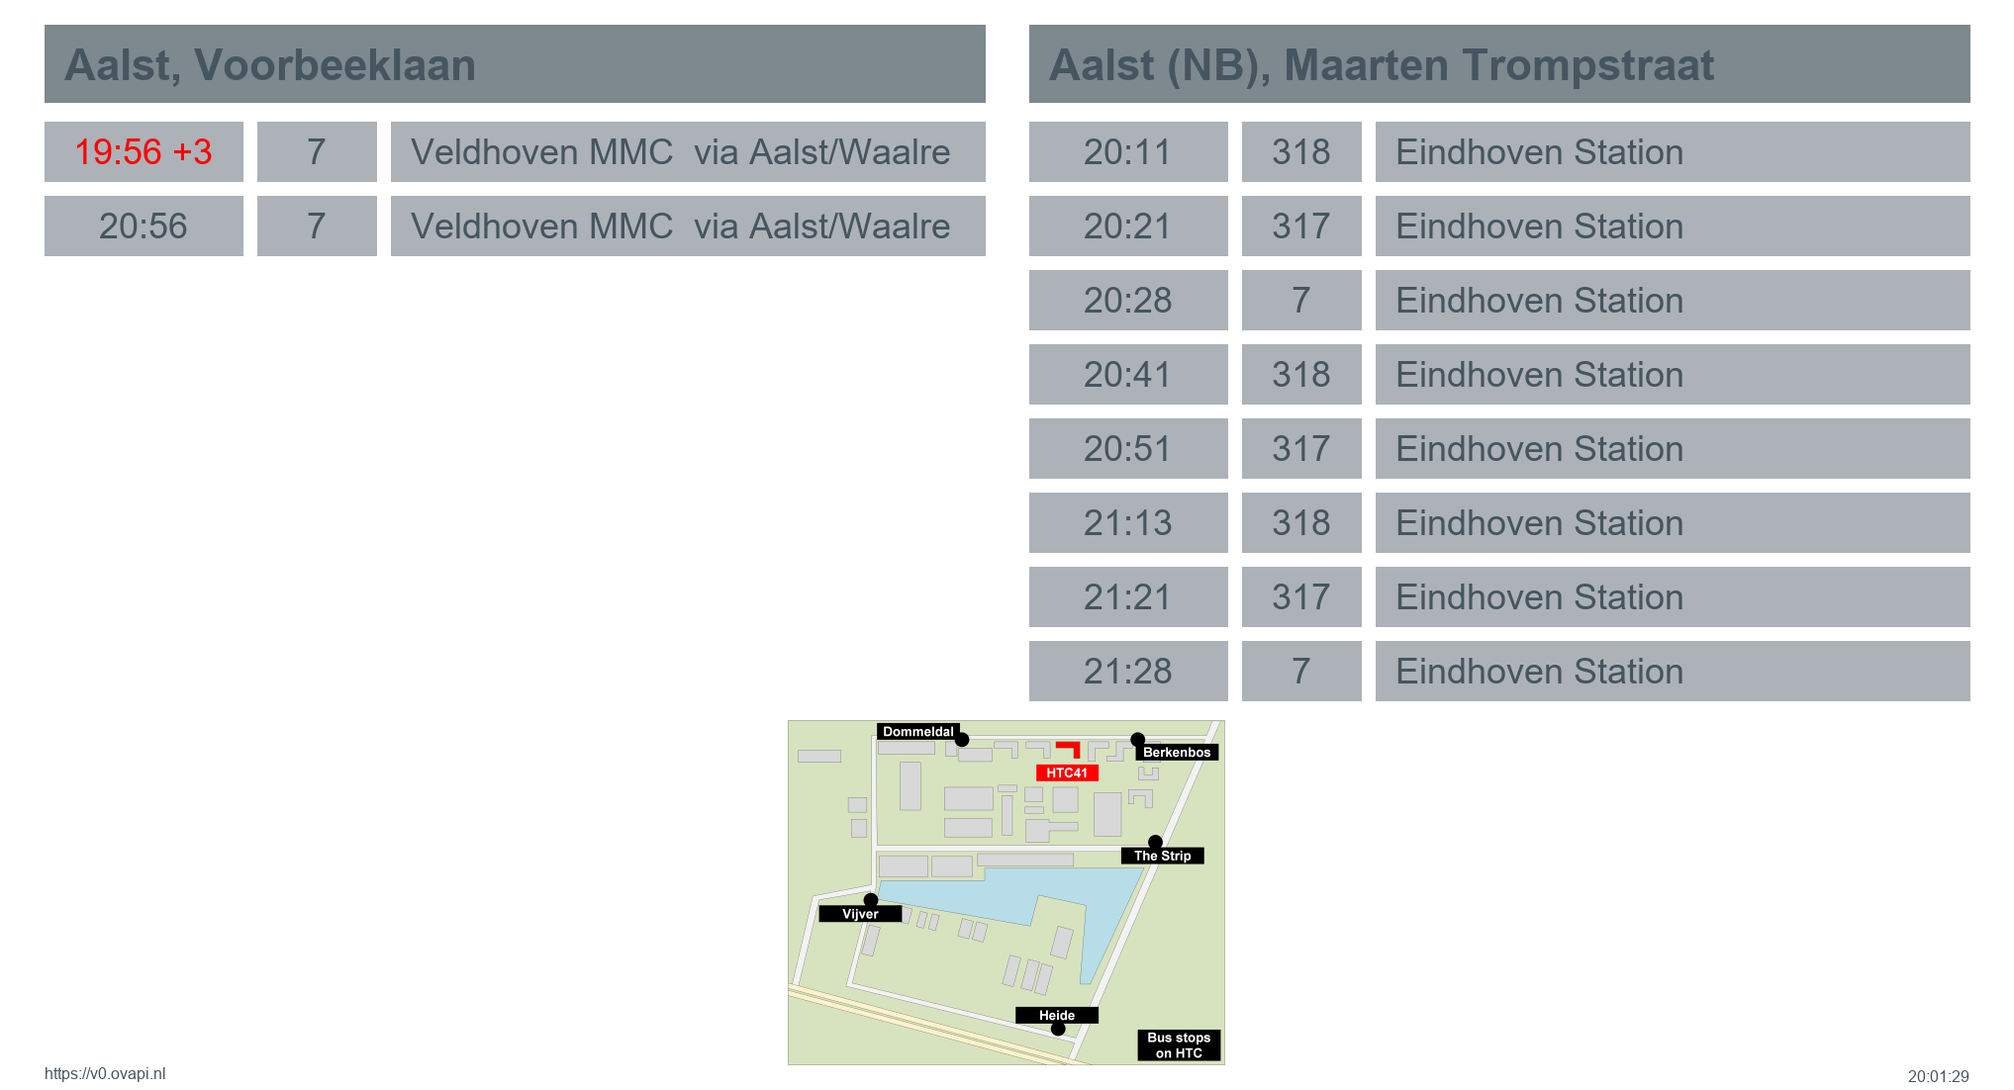
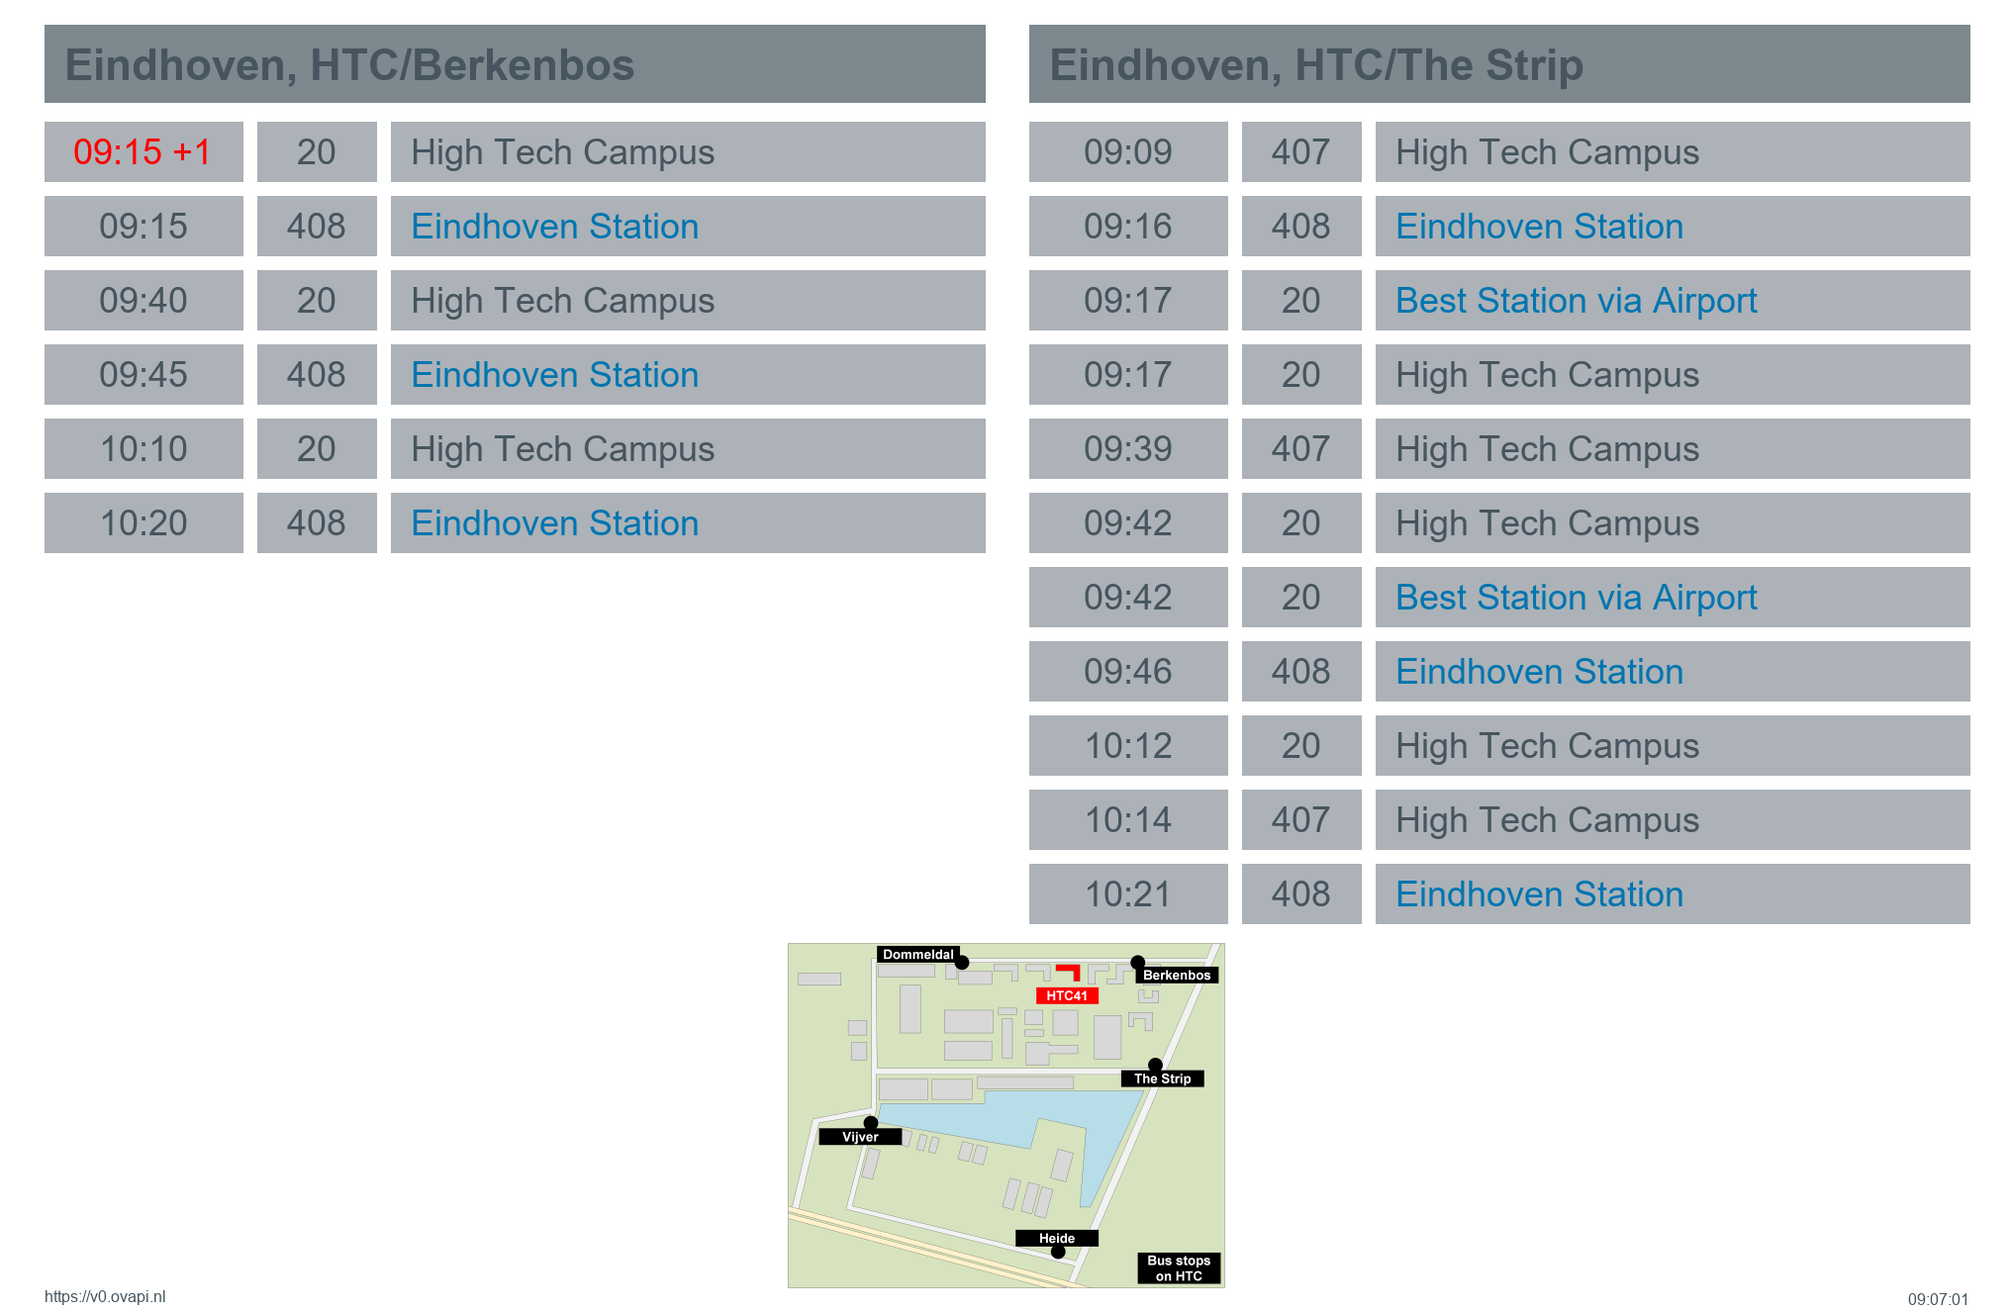
v2 Lost bus fixed
- Fixed bug that removed departures
 - added row limit
 - more flex in fgcolor
 - changed footer

Changed region(s): [[0.0, 0.0, 0.9907, 0.9873], [0.9287, 0.9873, 0.9907, 1.0], [0.031, 0.9564, 0.0619, 1.0]]

diff --git a/nlbus/nlbus.py b/nlbus/nlbus.py
@@ -2,8 +2,9 @@
 
 
 # nlbus.png.py - Script creating a timetable for bus stops (in the Netherlands)
+# 2021 oct 01  v2  Maarten Pennings  Fixed bug that removed departures, added row limit, more flex in fgcolor
 # 2021 sep 29  v1  Maarten Pennings  Created
-version = "v1"
+version = "v2"
 
 
 # You need some modules
@@ -45,17 +46,15 @@ from datetime import datetime
 const_url="https://v0.ovapi.nl"
 
 # Standard colors (typically don't change, but add new names)
-const_color_amsgrey1=( 70, 85, 95)        # color code for ams dark grey
-const_color_amsgrey2=(125,136,143)        # color code for ams medium grey
-const_color_amsgrey3=(172,178,183)        # color code for ams light grey
-const_color_amsgreen=( 65,171,  2)        # color code for ams green
-const_color_amsblue =(  0,117,176)        # color code for ams blue
-const_color_red     =(255,  0,  0)        # color code for plain red
+const_color_amsgrey1=( 70, 85, 95)              # color code for ams dark grey
+const_color_amsgrey2=(125,136,143)              # color code for ams medium grey
+const_color_amsgrey3=(172,178,183)              # color code for ams light grey
+const_color_amsgreen=( 65,171,  2)              # color code for ams green
+const_color_amsblue =(  0,117,176)              # color code for ams blue
+const_color_red     =(255,  0,  0)              # color code for plain red
 
 
-
-
-# Diversity settings: Vertical spacing
+# Diversity settings: Vertical spacing (make it fit in 1026; 1080 minus NarrowCast status bar)
 #
 #   div_y_mar  |
 #              +----------------------------------+
@@ -79,16 +78,16 @@ const_color_red     =(255,  0,  0)        # color code for plain red
 #              +-------------+
 #   div_y_mar  |
 
-div_y_mar = 25                            # top and bottom vertical margin
-div_y_seph = 20                           # vertical space between head cell and (first) plain cell
-div_y_sepc = 15                           # vertical space between plain cells
-div_y_sepm = 20                           # vertical space between plain cells and map
+div_y_mar = 25                                  # top and bottom vertical margin
+div_y_seph = 15                                 # vertical space between head cell and (first) plain cell
+div_y_sepc = 15                                 # vertical space between plain cells
+div_y_sepm = 20                                 # vertical space between plain cells and map
 
-div_y_head = 78                           # height of the head cell
-div_y_row = 60                            # height of the plain cells
+div_y_head = 78                                 # height of the head cell
+div_y_row = 60                                  # height of the plain cells
 
 
-# Diversity settings: Horizontal spacing
+# Diversity settings: Horizontal spacing (make it fit in 1920)
 #
 #   div_x_mar div_x_head                                                    div_x_seph                                 div_x_mar
 #   ---------+-------------------------------------------------------------+----------+-------------------------------+---------
@@ -98,44 +97,49 @@ div_y_row = 60                            # height of the plain cells
 #            +----------+----------+----------+----------+-----------------+----------+-----+-+---+-+-----------------+
 #             div_x_time div_x_sepc div_x_line div_x_sepc     div_x_dest
 
-div_x_mar = 45                            # top and bottom horizontal margin
-div_x_seph = 45                           # horizontal space between head cells
-div_x_sepc = 15                           # horizontal space between plain cells
+div_x_mar = 25                                  # top and bottom horizontal margin
+div_x_seph = 30                                 # horizontal space between head cells
+div_x_sepc = 10                                 # horizontal space between plain cells
 
-div_x_time = 200                          # width for the departure time field
-div_x_line = 120                          # width for the bus line number field
-div_x_dest = 600                          # width for the bus destination field
+div_x_time = 190                                # width for the departure time field
+div_x_line = 100                                # width for the bus line number field
+div_x_dest = 600                                # width for the bus destination field
 div_x_head = div_x_time + div_x_sepc + div_x_line + div_x_sepc + div_x_dest
 
 
 # Diversity settings: Background color for generated image
-div_bgcol= 0                              # background color of generated image (0=transparent, also eg "white")
+div_bgcolor= 0                                  # background color of generated image (0=transparent, also eg "white")
 
 
 # Diversity settings: Font and colors for heading
-div_head_fontname="ARIALBD.TTF"           # font name for head cells
-div_head_fontsize=44                      # font size for within head cells
-div_head_bgcolor= const_color_amsgrey2    # background color for within head cells
-div_head_fgcolor= const_color_amsgrey1    # foreground color for within head cells
-div_head_ytxt = 16                        # vertical offset for text in head cells
-div_head_xtxt = 20                        # horizontal offset for text in head cells
+div_head_fontname="ARIALBD.TTF"                 # font name for head cells
+div_head_fontsize=44                            # font size for within head cells
+div_head_bgcolor= const_color_amsgrey2          # background color for within head cells
+div_head_fgcolor= const_color_amsgrey1          # foreground color for within head cells
+div_head_ytxt = 16                              # vertical offset for text in head cells
+div_head_xtxt = 20                              # horizontal offset for text in head cells
 
 
 # Diversity settings: Font and colors for plain cells
-div_cell_fontname="ARIAL.TTF"             # font name for plain cells
-div_cell_fontsize=36                      # font size for within plain cells
-div_cell_bgcolor= const_color_amsgrey3    # background color for within plain cells
-div_cell_fgcolor_lo= const_color_amsgrey1 # foreground color (low light) for within plain cells
-div_cell_fgcolor_hi= const_color_amsblue  # foreground color (high light) for within plain cells
-div_cell_fgcolor_delay= const_color_red   # foreground color for delays
-div_cell_ytxt = 10                        # vertical offset for text in plain cells
-div_cell_xtxt = 20                        # horizontal offset for text in plain cells
+div_cell_fontname="ARIAL.TTF"                   # font name for plain cells
+div_cell_fontsize=36                            # font size for within plain cells
+div_cell_bgcolor= const_color_amsgrey3          # background color for within plain cells
+
+div_cell_time_fgcolor= const_color_amsgrey1     # foreground color for within time cells
+div_cell_line_fgcolor= const_color_amsgrey1     # foreground color for within line cells
+div_cell_dest_fgcolor= const_color_amsblue      # foreground color for within destination cells
+
+div_cell_timelate_fgcolor= const_color_red      # foreground color for within time cells when bus is late
+div_cell_destlo_fgcolor= const_color_amsgrey1   # foreground color for within destination cells when low lighted
+
+div_cell_ytxt = 10                              # vertical offset for text in plain cells
+div_cell_xtxt = 20                              # horizontal offset for text in plain cells
 
 
 # Diversity settings: Font for server "now" time stamp
-div_now_fontname="ARIAL.TTF"              # font name for server "now" time stamp
-div_now_fontsize=16                       # font size for server "now" time stamp
-div_now_fgcolor=const_color_amsgrey1      # foreground color for server "now" time stamp
+div_now_fontname="ARIAL.TTF"                    # font name for server "now" time stamp
+div_now_fontsize=16                             # font size for server "now" time stamp
+div_now_fgcolor=const_color_amsgrey1            # foreground color for server "now" time stamp
 
 
 # Prepend the path of this script to fonts\filename to make it an absolute path
@@ -151,7 +155,9 @@ def getFontPath(filename):
 #
 # `stops` is a string of comma separated "stopareacode"s, e.g. "ehvhbb,ehvhts". Find yours in https://v0.ovapi.nl/stopareacode
 # Each stopareacode is a key into the returned dictionary, giving the departure table for that stop.
-# The departure table is also a dictionary with `name`, `code` and a dictionary of `deps` (departures):
+# `maxrow` limits the length of the departure list in the output image
+#
+# The departure table is a dictionary with `name`, `code` and a dictionary of `deps` (departures):
 #   'ehvhts': {
 #     'name': 'Eindhoven, HTC/The Strip',
 #     'code': '64121390',
@@ -160,7 +166,7 @@ def getFontPath(filename):
 #       '14:42': { 'dest':'Best Station via Airport', 'line':'20', 'time':'2021-09-29T14:42:00', 'delay':120 }
 #     }
 #   }
-def stops2tables(stops) :
+def stops2tables(stops,maxrow) :
   global log
   # Load json data
   url = f"{const_url}/stopareacode/{stops}"
@@ -171,7 +177,7 @@ def stops2tables(stops) :
   # Convert data to json
   data_dict = json.loads(data_json)
   # log+= f"dict   : {str(data_dict)[:150]}...\r\n"
-  
+
   # data_dict has this structure, pick the relevant fields
   #
   # {
@@ -200,11 +206,12 @@ def stops2tables(stops) :
       LinePublicNumber = pass_dict["LinePublicNumber"]
       TargetArrivalTime = pass_dict["TargetArrivalTime"]
       ExpectedArrivalTime = pass_dict["ExpectedArrivalTime"]
-      delay = datetime.strptime(ExpectedArrivalTime,'%Y-%m-%dT%H:%M:%S') - datetime.strptime(TargetArrivalTime,'%Y-%m-%dT%H:%M:%S') 
+      delay = datetime.strptime(ExpectedArrivalTime,'%Y-%m-%dT%H:%M:%S') - datetime.strptime(TargetArrivalTime,'%Y-%m-%dT%H:%M:%S')
       delay = int(delay.total_seconds())
       log+= f"           {TargetArrivalTime} +{delay}s {LinePublicNumber} {DestinationName50}\r\n"
-      time = TargetArrivalTime[11:19]# "2021-09-29T00:41:33+0200"
-      departures[time]= {"dest":DestinationName50, "line":LinePublicNumber, "time":TargetArrivalTime, "delay":delay }
+      depkey = TargetArrivalTime[11:19] + key # "time" for sorting and "key" to make depkey unique (two departures with same time)
+      departures[depkey]= {"dest":DestinationName50, "line":LinePublicNumber, "time":TargetArrivalTime, "delay":delay }
+      if len(departures)>=maxrow : break # load (and thus render) limit
     table["deps"] = dict(sorted(departures.items())) # Sort on time, this is the order in the UI
     tables[stop] = table
   return tables
@@ -217,7 +224,7 @@ def stops2tables(stops) :
 # If `mapname` is not None, it should be a path to a image that will be added.
 def tables2image(tables,lowlight,mapname) :
   global log
-  # Find longest table
+  # Find table with most departure rows
   maxdeps = 1 # at least "no (more) busses"
   numstops = 0
   for skey in tables :
@@ -225,80 +232,76 @@ def tables2image(tables,lowlight,mapname) :
     maxdeps = max(maxdeps,len(stop["deps"]))
     numstops += 1
   log+= f"draw   : tables {numstops}, rows {maxdeps}\r\n"
-  # Compute size
+  # Compute size for image to generate
   width = div_x_mar + div_x_head*numstops + div_x_seph*(numstops-1) + div_x_mar
   height = div_y_mar + div_y_head + div_y_seph + div_y_row*maxdeps + div_y_sepc*(maxdeps-1) + div_y_mar
-  # Get map image
+  #  - optionally add map image
   if mapname!= None :
     mapimg = Image.open(mapname)
     height += div_y_sepm + mapimg.height
-  # Create image
-  img = Image.new("RGBA", (width,height), div_bgcol )
-  draw = ImageDraw.Draw(img)
+  # Create image of computed size
+  image = Image.new("RGBA", (width,height), div_bgcolor )
+  draw = ImageDraw.Draw(image)
   head_font = ImageFont.truetype(getFontPath(div_head_fontname), div_head_fontsize)
   cell_font = ImageFont.truetype(getFontPath(div_cell_fontname), div_cell_fontsize)
   now_font = ImageFont.truetype(getFontPath(div_now_fontname), div_now_fontsize)
   log+= f"size   : {width}*{height}\r\n"
-  # Create a column per stop
-  x0 = div_x_mar
+  # Create a column per stop - recall stop is key in tables
+  x0 = div_x_mar # column offset - increases with every stop
   for skey in tables :
     stop = tables[skey]
     # Draw head
-    y0 = div_y_mar
+    y0 = div_y_mar # row offset - increases with each departure
     draw.rectangle([x0,y0,x0+div_x_head,y0+div_y_head],fill=div_head_bgcolor,outline=div_head_bgcolor)
     draw.text( (x0+div_head_xtxt,y0+div_head_ytxt), stop["name"], div_head_fgcolor, font=head_font)
     # Draw departure rows
     y0 += div_y_head + div_y_seph
     for dkey in stop["deps"] :
       dep = stop["deps"][dkey]
-      #  - time
-      x = x0
+      # - time
+      x = x0 # cell offset - increases when moving from time/line/dest
       txt = dep["time"][11:16]
       if dep["delay"]>=60 :
         txt += f' +{dep["delay"]//60}'
       draw.rectangle([x,y0,x+div_x_time,y0+div_y_row],fill=div_cell_bgcolor,outline=div_cell_bgcolor)
       sizex,sizey= draw.textsize( txt, font=cell_font)
       dx = (div_x_time-div_cell_xtxt-div_cell_xtxt-sizex)//2
-      draw.text( (x+div_cell_xtxt+dx,y0+div_cell_ytxt), txt, div_cell_fgcolor_delay if dep["delay"]>=60 else div_cell_fgcolor_lo, font=cell_font)
-      #  - line
+      draw.text( (x+div_cell_xtxt+dx,y0+div_cell_ytxt), txt, div_cell_timelate_fgcolor if dep["delay"]>=60 else div_cell_time_fgcolor, font=cell_font)
+      # - line
       x += div_x_time + div_x_sepc
       txt = dep["line"]
       draw.rectangle([x,y0,x+div_x_line,y0+div_y_row],fill=div_cell_bgcolor,outline=div_cell_bgcolor)
       sizex,sizey= draw.textsize( txt, font=cell_font)
       dx = (div_x_line-div_cell_xtxt-div_cell_xtxt-sizex)//2
-      draw.text( (x+div_cell_xtxt+dx,y0+div_cell_ytxt), txt , div_cell_fgcolor_lo, font=cell_font)
-      #  - dest
+      draw.text( (x+div_cell_xtxt+dx,y0+div_cell_ytxt), txt , div_cell_line_fgcolor, font=cell_font)
+      # - dest
       x += div_x_line + div_x_sepc
       txt = dep["dest"]
       draw.rectangle([x,y0,x+div_x_dest,y0+div_y_row],fill=div_cell_bgcolor,outline=div_cell_bgcolor)
-      draw.text( (x+div_cell_xtxt,y0+div_cell_ytxt), txt, div_cell_fgcolor_lo if lowlight in txt else div_cell_fgcolor_hi, font=cell_font)
+      draw.text( (x+div_cell_xtxt,y0+div_cell_ytxt), txt, div_cell_destlo_fgcolor if lowlight in txt else div_cell_dest_fgcolor, font=cell_font)
       # Move x0 to new column
       y0 += div_y_row + div_y_sepc
-    # Was there a stop, or no more busses because too late?
+    # Was there a stop (or no more busses because too late in the day)
     if len(stop["deps"])==0 :
       draw.rectangle([x0,y0,x0+div_x_head,y0+div_y_row],fill=div_cell_bgcolor,outline=div_cell_bgcolor)
       txt = "no (more) busses"
-      draw.text( (x0+div_cell_xtxt,y0+div_cell_ytxt), txt, div_cell_fgcolor_lo, font=cell_font)
+      draw.text( (x0+div_cell_xtxt,y0+div_cell_ytxt), txt, div_cell_destlo_fgcolor, font=cell_font)
     # Move x0 to new column
     x0 += div_x_head + div_x_seph
-
   # Add map
   if mapname!= None :
-    img.paste( mapimg, ( (width-mapimg.width)//2, height-mapimg.height-div_y_mar ) )
-  # Add server url and time stamp
-  txt = datetime.now().strftime("%H:%M:%S")
+    image.paste( mapimg, ( (width-mapimg.width)//2, height-mapimg.height-div_y_mar ) )
+  # Add server url, time stamp and script version
+  txt = f"from {const_url} at {datetime.now().strftime('%H:%M:%S')} by nlbus {version}"
   sizex,sizey= draw.textsize( txt, font=now_font)
-  draw.text( (width-sizex-div_x_mar,height-sizey-div_now_fontsize//2), txt, div_now_fgcolor, font=now_font)
-  txt = const_url
-  sizex,sizey= draw.textsize( txt, font=now_font)
-  draw.text( (div_x_mar,height-sizey-div_now_fontsize//2), txt, div_now_fgcolor, font=now_font)
-  return img
+  draw.text( (div_x_mar,height-sizey-2), txt, div_now_fgcolor, font=now_font)
+  return image
 
 
 # Converts an image to a buffer of raw bytes (to be send by http)
-def image2bytes(image) :
+def image2buffer(image) :
   global log
-  # Send image to web client
+  # Save image to file in memory
   with io.BytesIO() as memfile:
     image.save(memfile, format="png")
     buffer= memfile.getvalue()
@@ -306,23 +309,24 @@ def image2bytes(image) :
   return buffer
 
 
-# Sequence of conversion steps, with a log to more easily finding errors
-# `stops` is a string of comma separated "stopareacode"s, e.g. "ehvhbb,ehvhts". Find yours in https://v0.ovapi.nl/stopareacode
+# Sequence of conversion steps, with a log to more easily find errors.
+# `stops` is a string of comma separated "stopareacode"s, e.g. "ehvhbb,ehvhts". Find yours in https://v0.ovapi.nl/stopareacode.
+# `maxrow` limits the length of the departure list in the output image.
 # If the destination of a departure contains `lowlight`, that destination is drawn in lowlight, else in highlight.
 # If mapname is not none, it should be a path to a image that will be added.
 # Returns the final image buffer but also the intermediate results: tables, image, buffer.
-def main(stops,lowlight,mapname) :
+def main(stops,maxrow,lowlight,mapname) :
   global log
   log = ""
   log += f"NL Bus creates a timetable for bus stops (in the Netherlands) - {version}\r\n"
-  log += "SYNTAX : nlbus.png?stops=ehvhbb,ehvhts&lowlight=Campus&mapname=htc.png\r\n"
-  log += "         Find stops on https://v0.ovapi.nl/stopareacode, lowlight and mapname are optional\r\n\r\n"
+  log += "SYNTAX : nlbus.png?stops=ehvhbb,ehvhts&maxrow=7&lowlight=Campus&mapname=htc.png\r\n"
+  log += "         Find stops on https://v0.ovapi.nl/stopareacode, maxrow, lowlight and mapname are optional\r\n\r\n"
   # Create table with departures for every bus stop in `stops`
-  tables = stops2tables(stops)
+  tables = stops2tables(stops,maxrow)
   # Convert table to image grid (low lighting all destinations that contain `lowlight`)
   image = tables2image(tables,lowlight,mapname)
   # Convert image to bytes array
-  buffer = image2bytes(image)
+  buffer = image2buffer(image)
   return tables,image,buffer
 
 
@@ -332,11 +336,12 @@ def application(environ, start_response):
   try:
     # Get parameters from URL
     params = urllib.parse.parse_qs(environ['QUERY_STRING'])
-    stops = params.get('stops', ["ehvhts"])[0]
-    lowlight = params.get('lowlight', [""])[0]
-    mapname = params.get('mapname', [None])[0]
+    stops = params.get('stops', ["ehvhts"])[0] # default "Eindhoven, HTC/The Strip"
+    maxrow = params.get('maxrow', [9999])[0]   # default: "all departures" (9999 is poor man's +inf)
+    lowlight = params.get('lowlight', [""])[0] # default: all destinations are lowlighted (all match "")
+    mapname = params.get('mapname', [None])[0] # default: no map
     # Load actual bus data from server and convert to image
-    tables,image,buffer = main(stops,lowlight,mapname)
+    tables,image,buffer = main(stops,maxrow,lowlight,mapname)
     # raise Exception("Aborted for testing") # Uncomment for testing
     start_response("200 OK",[("Content-type","image/png")])
     return [buffer]
@@ -350,12 +355,11 @@ def application(environ, start_response):
 if __name__ == "__main__":
   global log
   try:
-    stops="ehvhbb,ehvhts"
-    lowlight="High Tech Campus"
-    stops = "aalvbl,aalmts"
-    lowlight=""
+    stops="ehvhbb,ehvhts" # stops = "aalvbl,aalmts"
+    lowlight="Campus"
+    maxrow= 7
     mapname="htc.png"
-    tables,image,buffer = main(stops,lowlight,mapname)
+    tables,image,buffer = main(stops,maxrow,lowlight,mapname)
     filename = "trial.png"
     image.save(filename)
     log+= f"png    : saved '{filename}'\r\n"
